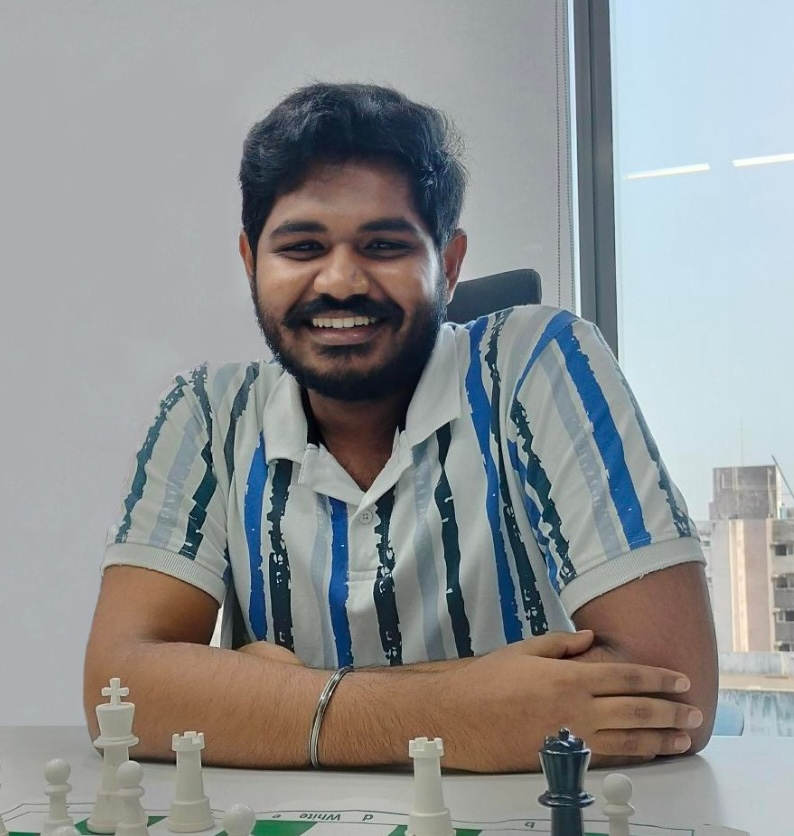
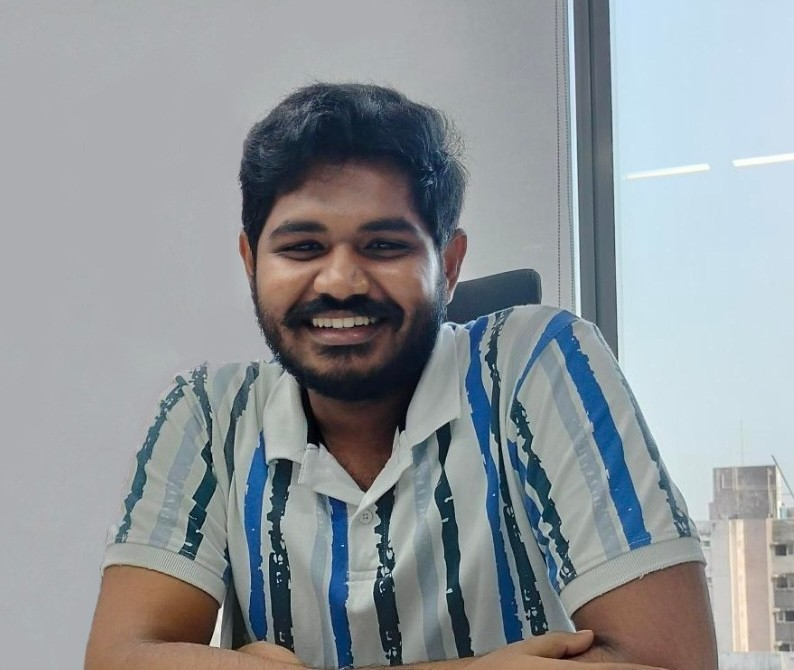
Update speaker information in index.html, including new entries for Rajaganapathy, Umashankar Nedunchezhian, A.V. Karthik, Dr. Senbagam Raja, Jeevitha, Karthikeyan, and Nanthakumaran Senthilnathan. Also, replace images for Karthik and Nanthakumaran, and update the image for Dr. Senbagam Raja.

diff --git a/index.html b/index.html
@@ -1100,8 +1100,45 @@
                     </div>
                 </div>
 
-                <!-- Speaker 14: Ramya Natesan - AstraZeneca -->
+                <!-- Speaker 14: Rajaganapathy - CWD -->
                 <div class="speaker-card" data-aos="fade-up" data-aos-delay="1200">
+                    <div class="speaker-card-inner">
+                        <div class="speaker-front">
+                            <div class="speaker-image">
+                                <img src="images/Rajaganapathy.jpeg.jpg" alt="Rajaganapathy">
+                                <div class="speaker-overlay">
+                                    <div class="speaker-bio">Agentic AI on AWS - The Next Era of Cloud Intelligence</div>
+                                </div>
+                            </div>
+                            <div class="speaker-info">
+                                <h3>Rajaganapathy</h3>
+                                <p class="speaker-title">CWD</p>
+                                <p class="speaker-topic">Delivery Lead</p>
+                                <div class="speaker-social">
+                                    <a href="https://www.linkedin.com/in/rajaganapathyk/?originalSubdomain=in" title="LinkedIn"><i class="fab fa-linkedin"></i></a>
+                                </div>
+                            </div>
+                        </div>
+                        <div class="speaker-back">
+                            <div class="speaker-details">
+                                <h3>Rajaganapathy</h3>
+                                <p class="speaker-experience">Delivery Lead @ CWD</p>
+                                <div class="speaker-description">
+                                    <p>Rajaganapathy is a Delivery Lead at CWD, specializing in Agentic AI implementations on AWS and cloud intelligence solutions.</p>
+                                    <div class="speaker-expertise">
+                                        <span class="expertise-tag">Agentic AI</span>
+                                        <span class="expertise-tag">AWS</span>
+                                        <span class="expertise-tag">Cloud Intelligence</span>
+                                    </div>
+                                </div>
+                                <button class="back-btn" onclick="flipCard(this)">Back</button>
+                            </div>
+                        </div>
+                    </div>
+                </div>
+
+                <!-- Speaker 15: Ramya Natesan - AstraZeneca -->
+                <div class="speaker-card" data-aos="fade-up" data-aos-delay="1300">
                     <div class="speaker-card-inner">
                         <div class="speaker-front">
                             <div class="speaker-image">
@@ -1137,8 +1174,8 @@
                     </div>
                 </div>
 
-                <!-- Speaker 15: Saravanan Gnanaguru - CloudEngine Labs -->
-                <div class="speaker-card" data-aos="fade-up" data-aos-delay="1300">
+                <!-- Speaker 16: Saravanan Gnanaguru - CloudEngine Labs -->
+                <div class="speaker-card" data-aos="fade-up" data-aos-delay="1400">
                     <div class="speaker-card-inner">
                         <div class="speaker-front">
                             <div class="speaker-image">
@@ -1174,8 +1211,8 @@
                     </div>
                 </div>
 
-                <!-- Speaker 16: Sujoy Roy - Solventum -->
-                <div class="speaker-card" data-aos="fade-up" data-aos-delay="1400">
+                <!-- Speaker 17: Sujoy Roy - Solventum -->
+                <div class="speaker-card" data-aos="fade-up" data-aos-delay="1500">
                     <div class="speaker-card-inner">
                         <div class="speaker-front">
                             <div class="speaker-image">
@@ -1211,8 +1248,45 @@
                     </div>
                 </div>
 
-                <!-- Speaker 17: Varsha Verma - Accenture -->
-                <div class="speaker-card" data-aos="fade-up" data-aos-delay="1500">
+                <!-- Speaker 18: Umashankar Nedunchezhian - 1CloudHub -->
+                <div class="speaker-card" data-aos="fade-up" data-aos-delay="1600">
+                    <div class="speaker-card-inner">
+                        <div class="speaker-front">
+                            <div class="speaker-image">
+                                <img src="images/umashankar.jpg" alt="Umashankar Nedunchezhian">
+                                <div class="speaker-overlay">
+                                    <div class="speaker-bio">Cloud Technology Innovation and Strategy</div>
+                                </div>
+                            </div>
+                            <div class="speaker-info">
+                                <h3>Umashankar Nedunchezhian</h3>
+                                <p class="speaker-title">1CloudHub</p>
+                                <p class="speaker-topic">Chief Technology Advisor</p>
+                                <div class="speaker-social">
+                                    <a href="https://www.linkedin.com/in/umashankarn/?originalSubdomain=in" title="LinkedIn"><i class="fab fa-linkedin"></i></a>
+                                </div>
+                            </div>
+                        </div>
+                        <div class="speaker-back">
+                            <div class="speaker-details">
+                                <h3>Umashankar Nedunchezhian</h3>
+                                <p class="speaker-experience">Chief Technology Advisor @ 1CloudHub</p>
+                                <div class="speaker-description">
+                                    <p>Umashankar Nedunchezhian is a Chief Technology Advisor at 1CloudHub, specializing in cloud technology innovation and strategic technology consulting for modern enterprises.</p>
+                                    <div class="speaker-expertise">
+                                        <span class="expertise-tag">Cloud Strategy</span>
+                                        <span class="expertise-tag">Technology Innovation</span>
+                                        <span class="expertise-tag">Enterprise Consulting</span>
+                                    </div>
+                                </div>
+                                <button class="back-btn" onclick="flipCard(this)">Back</button>
+                            </div>
+                        </div>
+                    </div>
+                </div>
+
+                <!-- Speaker 19: Varsha Verma - Accenture -->
+                <div class="speaker-card" data-aos="fade-up" data-aos-delay="1700">
                     <div class="speaker-card-inner">
                         <div class="speaker-front">
                             <div class="speaker-image">
@@ -1248,8 +1322,8 @@
                     </div>
                 </div>
 
-                 <!-- Speaker 18: Vinolin Jermiah - Trainocate Networks (Workshop Speaker) -->
-                 <div class="speaker-card" data-aos="fade-up" data-aos-delay="1600">
+                                 <!-- Speaker 20: Vinolin Jermiah - Trainocate Networks (Workshop Speaker) -->
+                <div class="speaker-card" data-aos="fade-up" data-aos-delay="1800">
                     <div class="keynote-badge">
                         <i class="fas fa-crown"></i>
                         Workshop Speaker
@@ -1281,6 +1355,191 @@
                                         <span class="expertise-tag">Amazon Q CLI</span>
                                         <span class="expertise-tag">Cloud Development</span>
                                         <span class="expertise-tag">AWS Training</span>
+                                    </div>
+                                </div>
+                                <button class="back-btn" onclick="flipCard(this)">Back</button>
+                            </div>
+                        </div>
+                    </div>
+                </div>
+
+                <!-- Speaker 21: A.V. Karthik - RR Donnelley -->
+                <div class="speaker-card" data-aos="fade-up" data-aos-delay="1900">
+                    <div class="speaker-card-inner">
+                        <div class="speaker-front">
+                            <div class="speaker-image">
+                                <img src="images/Karthik - karthik A.V..jpeg.jpg" alt="A.V. Karthik">
+                                <div class="speaker-overlay">
+                                    <div class="speaker-bio">Agentic AI on AWS - The Next Era of Cloud Intelligence</div>
+                                </div>
+                            </div>
+                            <div class="speaker-info">
+                                <h3>A.V. Karthik</h3>
+                                <p class="speaker-title">RR Donnelley</p>
+                                <p class="speaker-topic">AWS Solutions Architect</p>
+                                <div class="speaker-social">
+                                    <a href="https://www.linkedin.com/in/karthikav93/" title="LinkedIn"><i class="fab fa-linkedin"></i></a>
+                                </div>
+                            </div>
+                        </div>
+                        <div class="speaker-back">
+                            <div class="speaker-details">
+                                <h3>A.V. Karthik</h3>
+                                <p class="speaker-experience">Agentic AI on AWS - The Next Era of Cloud Intelligence</p>
+                                <div class="speaker-description">
+                                    <p>Agentic AI on AWS - The Next Era of Cloud Intelligence</p>
+                                    <div class="speaker-expertise">
+                                        <span class="expertise-tag">AWS S3</span>
+                                        <span class="expertise-tag">CloudFront</span>
+                                        <span class="expertise-tag">Static Websites</span>
+                                    </div>
+                                </div>
+                                <button class="back-btn" onclick="flipCard(this)">Back</button>
+                            </div>
+                        </div>
+                    </div>
+                </div>
+
+                <!-- Speaker 22: Dr. Senbagam Raja - Trianz Digital Services -->
+                <div class="speaker-card" data-aos="fade-up" data-aos-delay="2000">
+                    <div class="speaker-card-inner">
+                        <div class="speaker-front">
+                            <div class="speaker-image">
+                                <img src="images/shen_photo - Senbagam Raja.jpg" alt="Dr. Senbagam Raja">
+                                <div class="speaker-overlay">
+                                    <div class="speaker-bio">Agentic AI on AWS - The Next Era of Cloud Intelligence</div>
+                                </div>
+                            </div>
+                            <div class="speaker-info">
+                                <h3>Dr. Senbagam Raja</h3>
+                                <p class="speaker-title">Trianz Digital Services</p>
+                                <p class="speaker-topic">Senior Solutions Architect/Associate Director</p>
+                                <div class="speaker-social">
+                                    <a href="https://www.linkedin.com/in/senbagam-raja-5b87b7208/" title="LinkedIn"><i class="fab fa-linkedin"></i></a>
+                                </div>
+                            </div>
+                        </div>
+                        <div class="speaker-back">
+                            <div class="speaker-details">
+                                <h3>Dr. Senbagam Raja</h3>
+                                <p class="speaker-experience">Senior Solutions Architect/Associate Director @ Trianz Digital Services</p>
+                                <div class="speaker-description">
+                                    <p>Dr. Senbagam Raja brings 24 years of experience in implementing AWS Agentic AI solutions for predictive maintenance and enterprise digital transformation.</p>
+                                    <div class="speaker-expertise">
+                                        <span class="expertise-tag">AWS Agentic AI</span>
+                                        <span class="expertise-tag">Predictive Maintenance</span>
+                                        <span class="expertise-tag">Digital Transformation</span>
+                                    </div>
+                                </div>
+                                <button class="back-btn" onclick="flipCard(this)">Back</button>
+                            </div>
+                        </div>
+                    </div>
+                </div>
+
+                <!-- Speaker 23: Jeevitha - AWS Community Builder -->
+                <div class="speaker-card" data-aos="fade-up" data-aos-delay="2100">
+                    <div class="speaker-card-inner">
+                        <div class="speaker-front">
+                            <div class="speaker-image">
+                                <img src="images/jeevitha.jpeg" alt="Jeevitha">
+                                <div class="speaker-overlay">
+                                    <div class="speaker-bio">Agentic AI on AWS - The Next Era of Cloud Intelligence</div>
+                                </div>
+                            </div>
+                            <div class="speaker-info">
+                                <h3>Jeevitha</h3>
+                                <p class="speaker-title">AWS Community Builder</p>
+                                <p class="speaker-topic">AI Engineering</p>
+                                <div class="speaker-social">
+                                    <a href="https://www.linkedin.com/in/jeevitha-m-357979223/" title="LinkedIn"><i class="fab fa-linkedin"></i></a>
+                                </div>
+                            </div>
+                        </div>
+                        <div class="speaker-back">
+                            <div class="speaker-details">
+                                <h3>Jeevitha</h3>
+                                <p class="speaker-experience">AI Engineering @ AWS Community Builder</p>
+                                <div class="speaker-description">
+                                    <p>Jeevitha is an AWS Community Builder specializing in AI Engineering and Agentic AI implementations on AWS. She brings extensive expertise in building intelligent cloud solutions and fostering community growth.</p>
+                                    <div class="speaker-expertise">
+                                        <span class="expertise-tag">Agentic AI</span>
+                                        <span class="expertise-tag">AI Engineering</span>
+                                        <span class="expertise-tag">AWS</span>
+                                    </div>
+                                </div>
+                                <button class="back-btn" onclick="flipCard(this)">Back</button>
+                            </div>
+                        </div>
+                    </div>
+                </div>
+
+                <!-- Speaker 24: Karthikeyan - Logitech -->
+                <div class="speaker-card" data-aos="fade-up" data-aos-delay="2200">
+                    <div class="speaker-card-inner">
+                        <div class="speaker-front">
+                            <div class="speaker-image">
+                                <img src="images/karthikeyan.jpg" alt="Karthikeyan">
+                                <div class="speaker-overlay">
+                                    <div class="speaker-bio">Product Security in the Cloud Era</div>
+                                </div>
+                            </div>
+                            <div class="speaker-info">
+                                <h3>Karthikeyan</h3>
+                                <p class="speaker-title">Logitech</p>
+                                <p class="speaker-topic">Product Security</p>
+                                <div class="speaker-social">
+                                    <a href="https://www.linkedin.com/in/karthikeyan1337/?profileId=ACoAAAPzDGkBfnLfKM6sDN8AwXTHzNmH60bFpWo" title="LinkedIn"><i class="fab fa-linkedin"></i></a>
+                                </div>
+                            </div>
+                        </div>
+                        <div class="speaker-back">
+                            <div class="speaker-details">
+                                <h3>Karthikeyan</h3>
+                                <p class="speaker-experience">Product Security @ Logitech</p>
+                                <div class="speaker-description">
+                                    <p>Karthikeyan is a Product Security specialist at Logitech, focusing on implementing robust security measures for cloud-based products and ensuring secure development practices in modern software environments.</p>
+                                    <div class="speaker-expertise">
+                                        <span class="expertise-tag">Product Security</span>
+                                        <span class="expertise-tag">Cloud Security</span>
+                                        <span class="expertise-tag">Secure Development</span>
+                                    </div>
+                                </div>
+                                <button class="back-btn" onclick="flipCard(this)">Back</button>
+                            </div>
+                        </div>
+                    </div>
+                </div>
+
+                <!-- Speaker 25: Nanthakumaran Senthilnathan - Presidio -->
+                <div class="speaker-card" data-aos="fade-up" data-aos-delay="2300">
+                    <div class="speaker-card-inner">
+                        <div class="speaker-front">
+                            <div class="speaker-image">
+                                <img src="images/Nanthakumaran - Nanthakumaran Senthil Nathan.jpeg.jpg" alt="Nanthakumaran Senthilnathan">
+                                <div class="speaker-overlay">
+                                    <div class="speaker-bio">Agentic AI on AWS - The Next Era of Cloud Intelligence</div>
+                                </div>
+                            </div>
+                            <div class="speaker-info">
+                                <h3>Nanthakumaran Senthilnathan</h3>
+                                <p class="speaker-title">Presidio</p>
+                                <p class="speaker-topic">Software Engineer</p>
+                                <div class="speaker-social">
+                                    <a href="https://www.linkedin.com/in/nanthakumaran-s/" title="LinkedIn"><i class="fab fa-linkedin"></i></a>
+                                </div>
+                            </div>
+                        </div>
+                        <div class="speaker-back">
+                            <div class="speaker-details">
+                                <h3>Nanthakumaran Senthilnathan</h3>
+                                <p class="speaker-experience">Software Engineer @ Presidio</p>
+                                <div class="speaker-description">
+                                    <p>As more people build AI-powered apps using AWS, it's important to understand the security risks. This session will cover common mistakes like exposed S3 buckets or overly broad IAM permissions, and how tools like IAM, Secrets Manager, and GuardDuty can help protect your projects with simple best practices.</p>
+                                    <div class="speaker-expertise">
+                                        <span class="expertise-tag">Cloud Security</span>
+                                        <span class="expertise-tag">AI Security</span>
+                                        <span class="expertise-tag">AWS GuardDuty</span>
                                     </div>
                                 </div>
                                 <button class="back-btn" onclick="flipCard(this)">Back</button>
